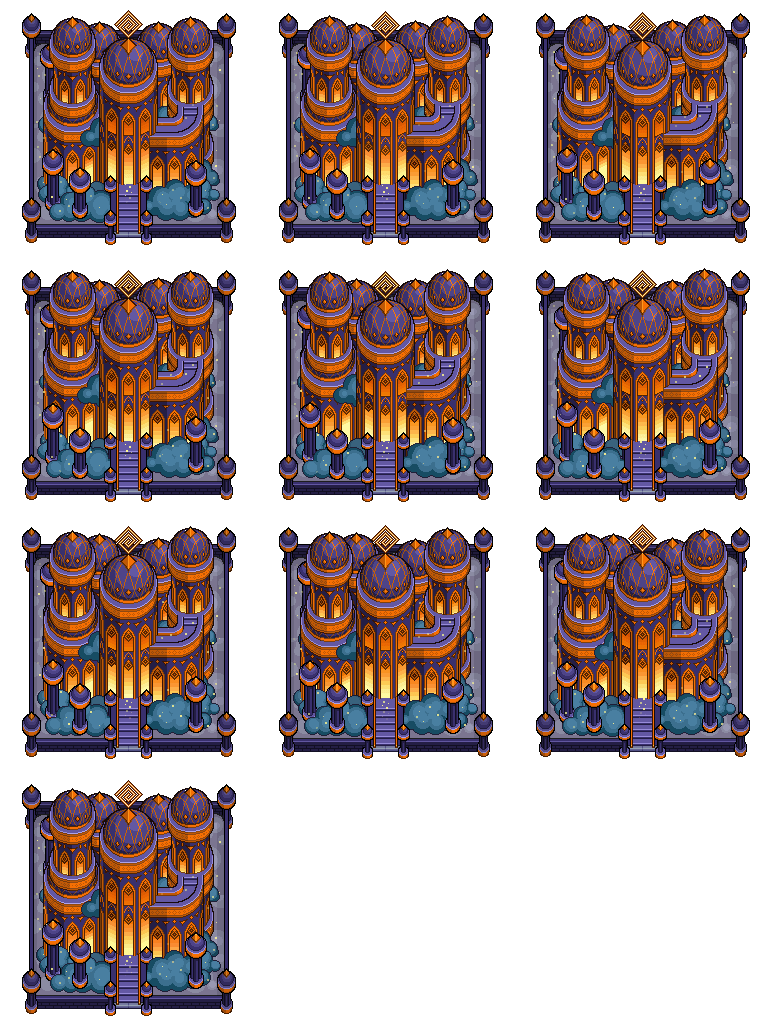
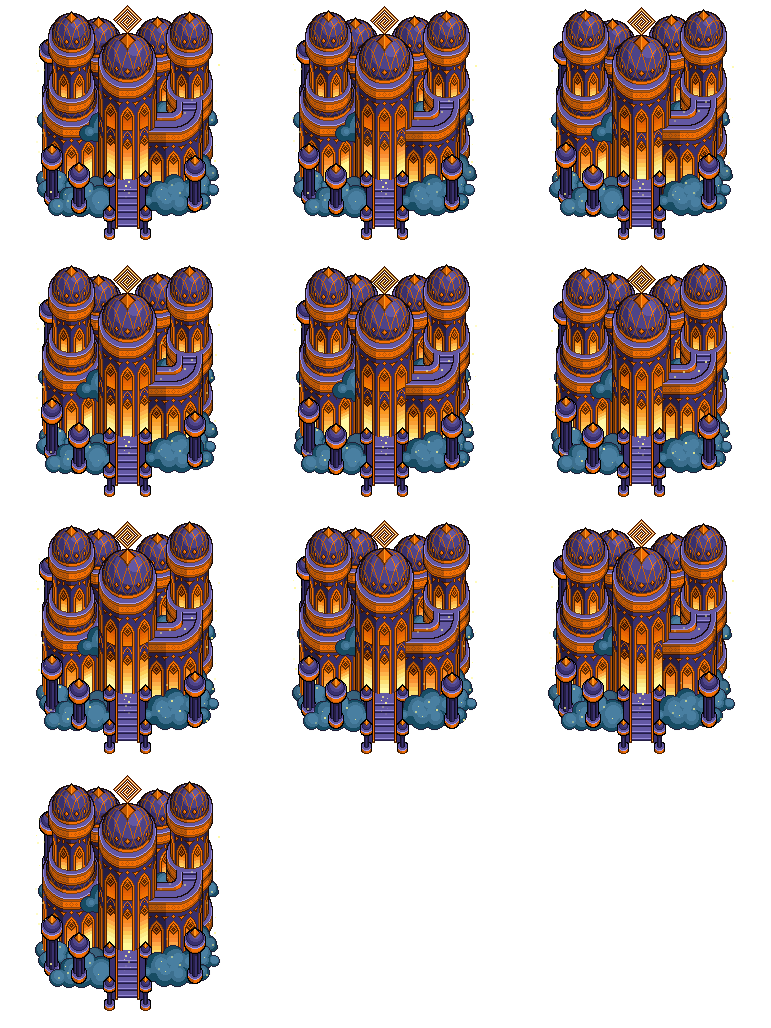
dreams

diff --git a/client/src/lib/tokens/DREAMS.ts b/client/src/lib/tokens/DREAMS.ts
@@ -3,8 +3,47 @@ export const DREAMS = {
   icon: '/tokens/DREAMS/dreams.png',
   biome: { x: 0, y: 5 },
   building: {
-    1: { x: 6, y: 9, useAnimation: false },
-    2: { x: 6, y: 10, useAnimation: false },
-    3: { x: 6, y: 11, useAnimation: false },
+    1: {
+      x: 6,
+      y: 9,
+      useAnimation: true,
+      animations: [
+        {
+          url: '/tokens/DREAMS/1-animated.png',
+          type: 'rowColumn',
+          width: 3,
+          height: 4,
+          animations: [{ name: 'idle', frameRange: [0, 9] }],
+        },
+      ],
+    },
+    2: {
+      x: 6,
+      y: 10,
+      useAnimation: true,
+      animations: [
+        {
+          url: '/tokens/DREAMS/2-animated.png',
+          type: 'rowColumn',
+          width: 3,
+          height: 4,
+          animations: [{ name: 'idle', frameRange: [0, 9] }],
+        },
+      ],
+    },
+    3: {
+      x: 6,
+      y: 11,
+      useAnimation: true,
+      animations: [
+        {
+          url: '/tokens/DREAMS/3-animated.png',
+          type: 'rowColumn',
+          width: 3,
+          height: 4,
+          animations: [{ name: 'idle', frameRange: [0, 9] }],
+        },
+      ],
+    },
   },
 } as const;
